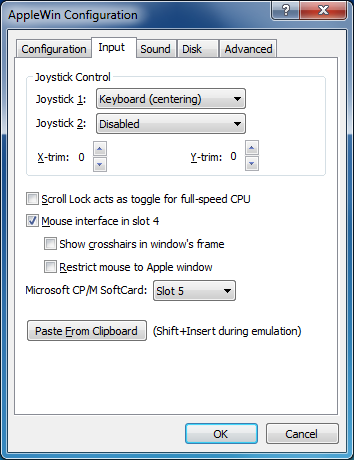
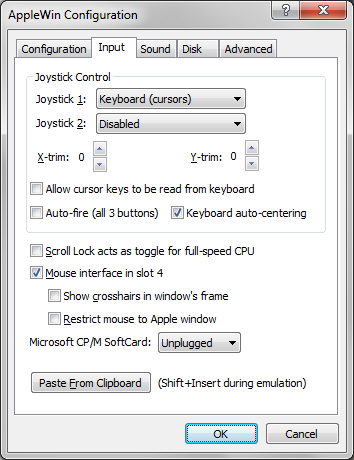
Update Help.

diff --git a/trunk/AppleWin/help/cfg-input.html b/trunk/AppleWin/help/cfg-input.html
@@ -26,6 +26,15 @@ joystick X/Y offsets when the joystick is centered. Normally central
 position is X=127, Y=127 so this adds the trim value for PC joysticks
 &amp; keyboard (centering). If you are using an analog PC joystick,
 then you should leave these values at 0.</li>
+  <li>Allow cursor keys to be read from keyboard: Applicable only in 'Keyboard (cursors)' mode.</li>
+  <li>NB.</li>
+  <ul>
+    <li>Be aware that 'cursor up' = CTRL+K, and 'cursor-down' = CTRL+J.</li>
+    <li>When cursor keys are used for joystick emulation <strong>and</strong> are allowed to be read from the keyboard, then some games won't work correctly (eg. Lode Runner).</li>
+	<li>When cursor keys are blocked from being read from the keyboard, then simple command-line cursor editing in AppleSoft won't work.</li>
+  </ul>
+  <li>Auto-fire (all 3 buttons): For each button pressed, the button's state will be toggled when read.</li>
+  <li>Keyboard auto-centering: When keys used for joystick emulation are released then the joystick will return to the central position.</li>
 </ul>
 
 

diff --git a/trunk/AppleWin/help/CommandLine.html b/trunk/AppleWin/help/CommandLine.html
@@ -34,5 +34,7 @@
 		Enable logging. Creates an AppleWin.log file<br><br>
 		-m<br>
 		Disable DirectSound support<br><br>
+		-no-printscreen-dlg<br>
+		Suppress the warning message-box if AppleWin fails to capture the PrintScreen key<br><br>
 	</body>
 </html>
